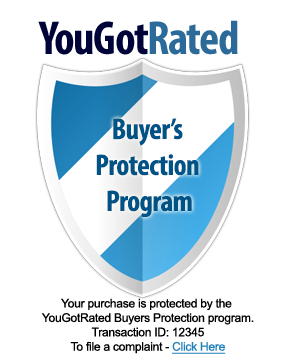
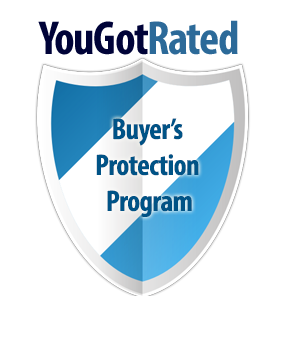
buyer badge #20068

Changed region(s): [[0.125, 0.825, 0.875, 1.0]]

diff --git a/application/businessadmin/views/buyer.php b/application/businessadmin/views/buyer.php
@@ -6,22 +6,24 @@
   <div class="breadcrumbs">
     <ul>
       <li class="home"><a href="<?php echo site_url('dashboard');?>" title="Dashboard">Dashboard</a></li>
-      <li><a href="<?php echo site_url('badge');?>" title="<?php echo $section_title; ?>"><?php echo $section_title; ?></a></li>
+      <li><a href="<?php echo site_url('buyer');?>" title="<?php echo $section_title; ?>"><?php echo $section_title; ?></a></li>
     </ul>
   </div>
 
 
 <div class="box">
     <div class="headlines">
-      <h2><span><?php echo "Buyer" ?></span></h2>
+      <h2><span><?php echo $section_title; ?></span></h2>
     </div>
     
     <table class="tab tab-drag">
      <tbody><tr class="top nodrop nodrag"> </tr>       
       
       <tr class="odd">
-        <td>Buyer Protection Badge Url</td>
+        <td>Embeddable Buyer Protection Code:</td>
+        
         <td>
+        <p>To embed this code into your email or website, simply copy this code into your website's or outgoing email's code.</p>
         <textarea cols='90' rows='10'><a href="<?php echo 'http'.(empty($_SERVER['HTTPS'])?'':'s').'://'.$_SERVER['SERVER_NAME'].'/complaint/dispute/'.$this->session->userdata['youg_admin']['id'];?>" target="_blank" title="Get Widget">
         <img src="<?php echo 'http'.(empty($_SERVER['HTTPS'])?'':'s').'://'.$_SERVER['SERVER_NAME'].'/images/BuyersProtection_Badge.png'; ?>" class="logo_btm" alt="Yougotrated" title="Yougotrated"  width='10%' ></a></textarea>
         </td>
@@ -33,24 +35,17 @@
         <td>
     <a href="<?php echo 'http'.(empty($_SERVER['HTTPS'])?'':'s').'://'.$_SERVER['SERVER_NAME'].'/complaint/dispute/'.$this->session->userdata['youg_admin']['id'];?>" target="_blank" title="Get Widget">
         <img src="<?php echo 'http'.(empty($_SERVER['HTTPS'])?'':'s').'://'.$_SERVER['SERVER_NAME'].'/images/BuyersProtection_Badge.png'; ?>" class="logo_btm" alt="Yougotrated" title="Yougotrated"  width='10%' ></a>
+        <br>
+        <span class="badge_font">
+			Your purchase is protected by the <br> YouGotRated Buyers Protection program.<br>
+            Transaction ID: <?php echo $this->session->userdata['youg_admin']['id'];?> <br> 
+            To file a complaint -<a href="<?php echo 'http'.(empty($_SERVER['HTTPS'])?'':'s').'://'.$_SERVER['SERVER_NAME'].'/complaint/dispute/'.$this->session->userdata['youg_admin']['id'];?>" target="_blank" title="File Complaint">Click Here</a>
+        </span>
         </td>
       </tr>
     
     </tbody>
     </table>	
-  
-  <table class="tab tab-drag">
-     <tbody><tr class="top nodrop nodrag"> </tr> 
-      <tr class="odd">
-        <td>
-        <p>Your purchase is protected by the YouGotRated Buyers Protection program.</p>
-        <p>Transaction ID: <?php echo $this->session->userdata['youg_admin']['id'];?> <br>
-        To file a complaint -<a href="<?php echo 'http'.(empty($_SERVER['HTTPS'])?'':'s').'://'.$_SERVER['SERVER_NAME'].'/complaint/dispute/'.$this->session->userdata['youg_admin']['id'];?>" target="_blank" title="File Complaint">Click Here</a><p>
-        </td>
-    </tr>
-
-  </tbody>
-    </table>      
    
 </div>
 <script>
